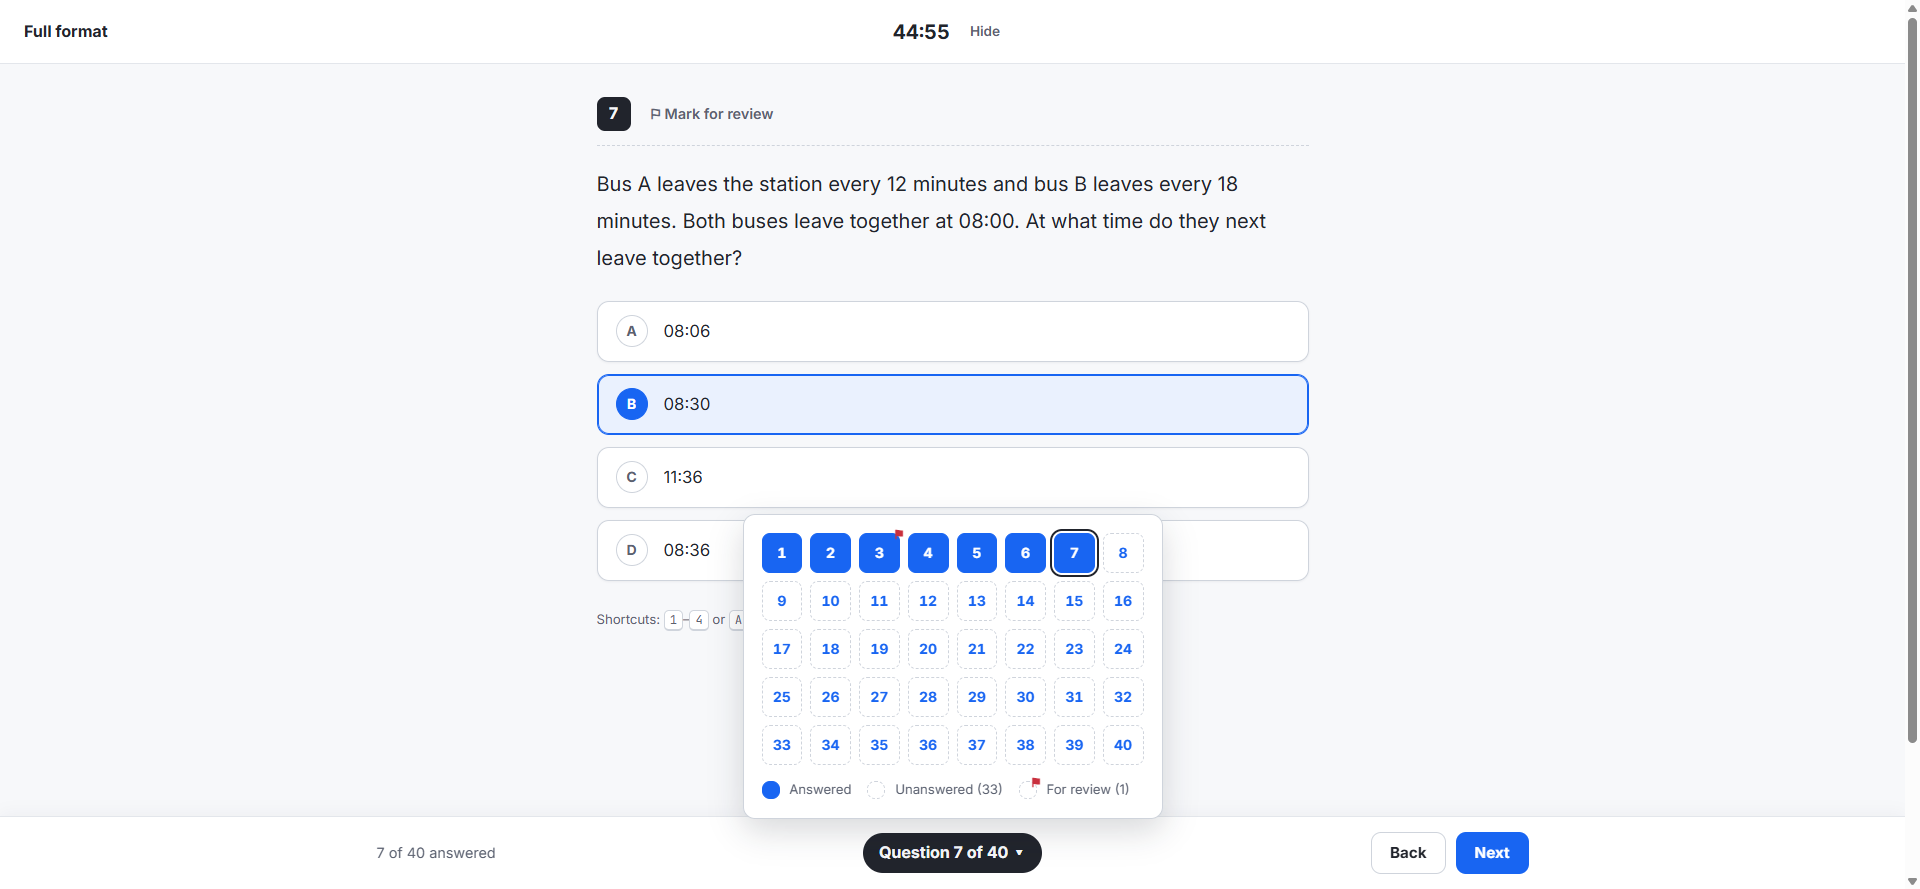
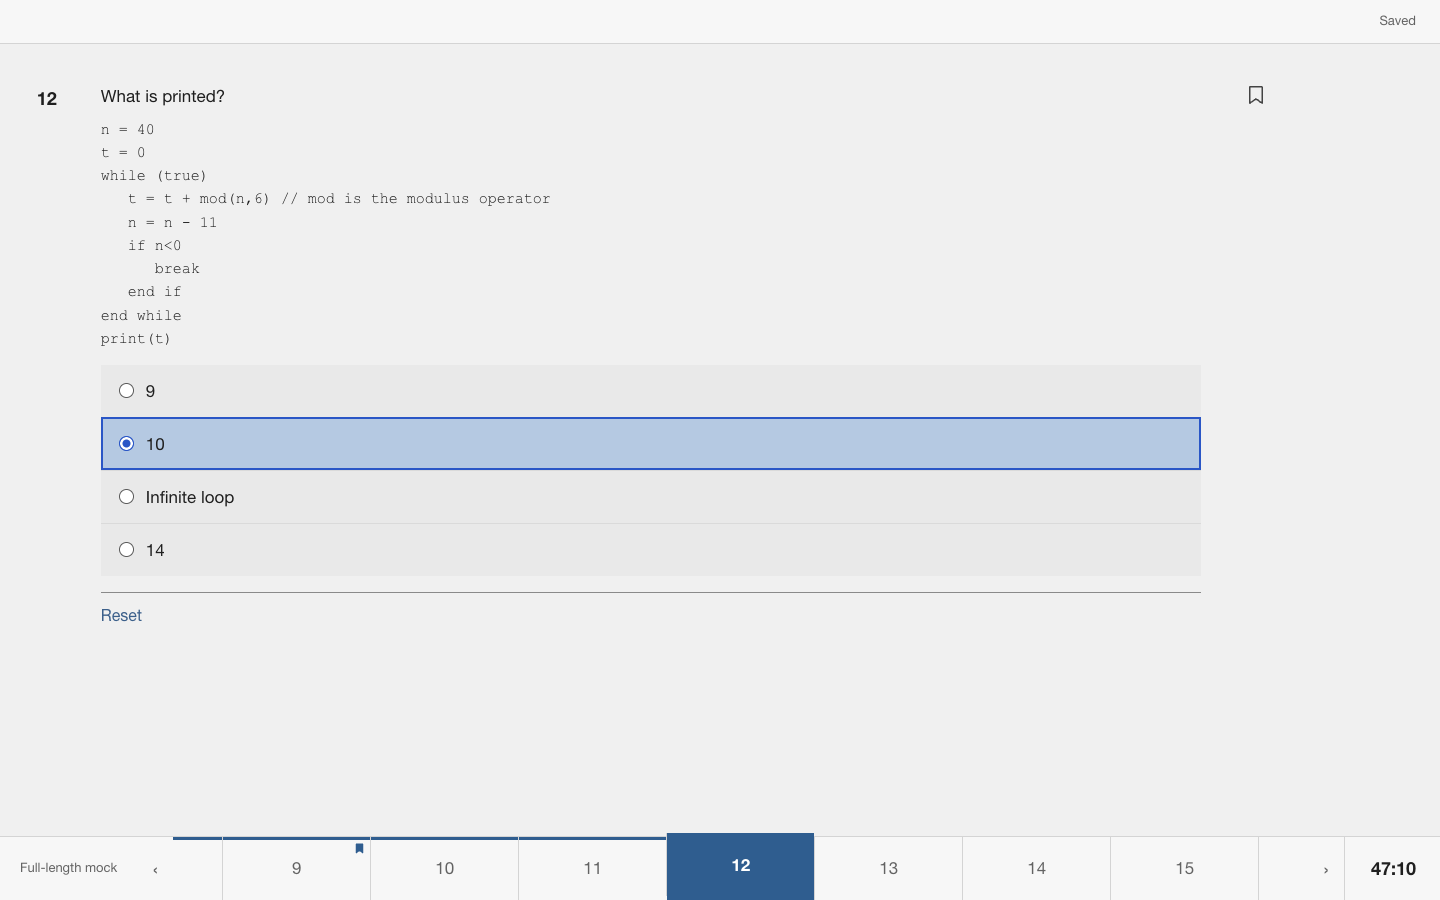
Update README, research notes and screenshots

diff --git a/README.md b/README.md
@@ -4,7 +4,7 @@
 
 **A complete revision site for the MBZUAI BSc in Artificial Intelligence screening exam.**
 
-Lessons for every topic · 1,304 hand-written questions · 181 generators that never run out · timed mock exams
+Lessons for every topic · 1,399 hand-written questions · 175 generators that never run out · timed mock exams
 
 **[Open the live site](https://bouwles.github.io/mbzuai-screening-prep/)**
 
@@ -20,12 +20,12 @@ Made by Paul Nercessian
 
 | | |
 |---|---|
-| **Learn** | 66 lessons, one per subtopic of MBZUAI's published syllabus, each in five steps you can skip between: (1) the simple version, recommended YouTube videos (Khan Academy, 3Blue1Brown, StatQuest, CS50 and others) and a step-by-step explanation; (2) worked examples revealed one step at a time, "which method when?" cues and common traps; (3) guided Foundation practice with progressive hints; (4) questions on your own, stepping up from Foundation to Exam level; (5) exam-level questions. Challenge questions are offered as optional enrichment. Plus a printable formula sheet. |
+| **Learn** | 65 lessons, one per subtopic of MBZUAI's published syllabus, each in five steps you can skip between: (1) the simple version, recommended YouTube videos (Khan Academy, 3Blue1Brown, StatQuest, CS50 and others) and a step-by-step explanation; (2) worked examples revealed one step at a time, "which method when?" cues and common traps; (3) guided Foundation practice with progressive hints; (4) questions on your own, stepping up from Foundation to Exam level; (5) exam-level questions. Plus a printable formula sheet. |
 | **Mastery** | A topic is *mastered* only from independent performance: of your last 10 answers without hints, at least 80% right and at least 3 right at Exam level. Topics you keep getting wrong are flagged *Needs work* and suggested for revisiting. Reading a lesson does not count. |
-| **Topic practice** | Pick topics, a difficulty (Build up / Foundation / Exam / Challenge / Mixed) and 10, 20, 30 or endless questions. *Build up* starts at Foundation and moves to Exam level after two hint-free right answers in a row. Progressive hints (one solution step at a time), instant feedback that starts with why your answer was wrong and how to recognise the question type, and a timer against the estimated exam pace. |
+| **Topic practice** | Pick topics, a difficulty (Build up / Foundation / Exam / Mixed) and 10, 20, 30 or endless questions. *Build up* starts at Foundation and moves to Exam level after two hint-free right answers in a row. Progressive hints (one solution step at a time), and instant feedback that starts with why your answer was wrong and how to recognise the question type. |
 | **General questions** | An endless mixed feed from the whole syllabus that leans towards your weakest topics. |
 | **Question bank** | Browse and search every question by area, topic, subtopic, difficulty and status (unseen / correct / wrong / flagged). |
-| **Mock exams** | A 60-minute full-length mock (60 minutes is the official BSc length; the question count is unpublished, so 53 is an estimate), 15 and 30 minute mocks, and a 40-question / 45-minute speed drill (MBZUAI's 2023 *graduate* format, not the BSc one). Foundation and Exam-level questions only. Countdown timer, navigator, flags, Submit only after the last question, auto-submit at zero, resumes after a reload. Results with the 75% line, breakdown by topic and a full review. |
+| **Mock exams** | A 60-minute full-length mock (60 minutes is the official BSc length; the question count is unpublished, so 53 is an estimate), 15 and 30 minute mocks, and a 40-question / 45-minute speed drill (MBZUAI's 2023 *graduate* format, not the BSc one). Foundation and Exam-level questions only, laid out like the real exam screen: numbered tab strip, mark-for-review bookmark, Reset, timer bottom-right. Submit only after the last question, auto-submit at zero, resumes after a reload. Results with the 75% line, breakdown by topic and a full review. |
 | **Mistakes** | Spaced repetition: wrong answers come back after 1, 3, 7 and 14 days. Generated questions come back with new numbers. |
 | **Dashboard** | Topics mastered, accuracy, streak, recent mock scores against the 75% line, weakest topics, and one "up next" step (due mistakes, then topics that need work, then where you left off). |
 
@@ -63,7 +63,7 @@ Areas and topics mirror MBZUAI's published list for the BSc screening exam:
 - **Programming Fundamentals**: Algorithmic Problem Solving, Basic Syntax Concepts, Functions, Basic Data Structures
 - **Data & AI Reasoning**: Data Interpretation, Basic Machine Learning Concepts
 
-These are split into 66 subtopics (see `src/syllabus.ts`). Research notes on the real exam, with sources, are in [RESEARCH_NOTES.md](RESEARCH_NOTES.md).
+These are split into 65 subtopics (see `src/syllabus.ts`). Research notes on the real exam, with sources, are in [RESEARCH_NOTES.md](RESEARCH_NOTES.md).
 
 ## Run it on your computer
 
@@ -111,7 +111,7 @@ Questions live in one file per subtopic: `src/questions/<area>/<topic>/<subtopic
 {
   id: 'quadratics-019',            // unique
   subtopic: 'quadratics',          // must match the file name
-  difficulty: 'exam',              // 'foundation' | 'exam' | 'challenge'
+  difficulty: 'exam',              // 'foundation' | 'exam'
   stem: 'Solve $x^2 - 5x + 6 = 0$.',
   options: ['$x = 2$ or $x = 3$', '$x = -2$ or $x = -3$', '$x = 1$ or $x = 6$', '$x = 5$ or $x = 6$'],
   correctIndex: 0,
@@ -126,32 +126,37 @@ Questions live in one file per subtopic: `src/questions/<area>/<topic>/<subtopic
 
 - Write maths inside `$...$` (inline) or `$$...$$` (display). In the `.ts` file, backslashes are doubled: `'\\frac{1}{2}'`.
 - Options are shuffled on screen, so explanations never mention a letter.
-- For Python "what does this print" questions add `code: { lang: 'python', source: '...' }` and `python: { stdout: '...' }`; the tests run the code for real.
+- Code is pseudocode by default: add `code: { lang: 'pseudocode', source: '...' }`, following the house dialect in [SPEC.md](SPEC.md), section 1.3. The tests run it through an interpreter and compare the output with the marked option.
+- Python is only for questions about reading basic Python: add `code: { lang: 'python', source: '...' }` and `python: { stdout: '...' }`; the tests run the code for real.
 - Generators live in `src/generators/...` and lessons in `src/lessons/...`; new files are picked up automatically.
 - Run `npm test` afterwards. It fails with a clear message if anything is off.
 
 ## How correctness is checked
 
-`npm test` runs 353 tests:
+`npm test` runs 610 tests:
 
 - Every static question: exactly 4 distinct options, a valid answer, a full mark scheme with an explanation for every wrong option, and every piece of LaTeX rendered through KaTeX in strict mode (it also rejects maths typed as plain text, `1x`, `+ -3` and similar).
 - Every question whose answer is a value is recomputed in code and must match the marked option (and no other option).
-- Every Python output question (175 of them) is run with real Python 3 and its output compared with the marked option. If Python isn't installed, the test prints the list of question ids to check by hand instead of failing.
+- Every Python output question (10 of them) is run with real Python 3 and its output compared with the marked option. If Python isn't installed, the test prints the list of question ids to check by hand instead of failing.
 - Every generator: 2,000 variants each, checking one correct option, four distinct options, no `NaN`/`undefined`, clean LaTeX, and that the worked solution ends on the correct answer.
 - Every lesson has the required sections (including the simple version and "which method when?" cues), and every subtopic has a lesson, recommended videos, at least 15 questions and at least one generator.
-- Every question yields at least one progressive hint that stops short of the full solution; mastery levels, the Build up ladder, and "no Challenge questions in mocks" are unit-tested.
+- Every pseudocode snippet must parse under the house dialect, and every snippet that can run on its own is run by a small interpreter and compared with the marked option.
+- The house style is enforced: short stems, no option that depends on a letter, Python at most 20% of Programming code questions, and at least 15 questions (6 Exam, 5 Foundation) per subtopic. `npm run report` prints the per-subtopic counts.
+- Old saved progress that refers to removed questions, generators or subtopics loads cleanly, and the exam screen's colours keep at least 4.5:1 contrast.
+- Every question yields at least one progressive hint that stops short of the full solution; mastery levels, the Build up ladder, and the mix of levels in mocks are unit-tested.
 
-On top of the automated tests, each subtopic was written and then independently re-solved by a separate reviewer, question by question.
+On top of the automated tests, every question whose answer isn't computed in code was independently re-solved by a separate reviewer.
 
 ## Design
 
-The look is based on the revision and test-prep tools students already know: Khan Academy, Brilliant, Quizlet, Duolingo and the College Board Bluebook exam app.
+The look is based on the revision tools students already know, such as Khan Academy, Brilliant, Quizlet and Duolingo, with questions always shown in the exam layout.
 
 - Light theme by default (dark theme in Settings), one blue accent, and green/red used only for right and wrong.
-- Practice runs in a focus view: exit at the top left, a thin progress bar, the question in a centred column, and **Check / Next at the bottom right**. Feedback appears in the bottom bar; the mark scheme opens below the question.
-- Mock exams copy the Bluebook layout: timer at the top centre (you can hide it), a question navigator at the bottom centre, Back / Next at the bottom right.
-- All maths is typeset with KaTeX, code is syntax-highlighted with line numbers, and charts are drawn as SVG.
-- No animations or transitions anywhere. Keyboard: `1`–`4` or `A`–`D` choose, `Enter` checks / continues, `F` flags, `←` `→` move in mock exams.
+- Every mode reads questions in the same block: a bold number at the left, the stem, grey option rows with radio circles and no letters, a rule, Reset, and a bookmark at the right.
+- Mock exams fill the screen: a "Saved" indicator at the top right, and a bottom strip of numbered tabs with Submit at the end and the timer at the right (click it to hide it). Mocks stay light whatever the theme.
+- In practice, feedback and the mark scheme open below the question, with **Check / Next** under them. The site navigation stays visible.
+- All maths is typeset with KaTeX, and charts are drawn as SVG. Pseudocode is plain Courier everywhere; Python in practice is syntax-highlighted with line numbers.
+- No animations or transitions, apart from a few small ones on the exam screen. Keyboard: `1`–`4` or `A`–`D` choose, `Enter` checks / continues, `F` marks for review, `←` `→` move in mock exams.
 
 ## Tech
 

diff --git a/RESEARCH_NOTES.md b/RESEARCH_NOTES.md
@@ -137,6 +137,7 @@ Overall: there is no reliable public evidence on difficulty or question count. T
 - **Never trust the `Exam.pdf` key.** Any item adapted from it must be re-solved, de-duplicated and kept on syllabus.
 - **Track awareness:** the exam is "relevant to your chosen track". A future Engineering/Business toggle could shift Programming weight. No public data on how the versions differ.
 - **Deadline banner:** EA deadline is 1 Nov 2026, and the exam must be done within 10 days of submitting. If the student applies EA, the exam lands by about 11 Nov 2026.
+- Bank refocused on exam-level style: short one-sentence stems, more definition questions, pseudocode as the default code language, Python-specific trivia and the Challenge tier removed, Rates & clocks dropped as off-syllabus.
 - All tunables live in `src/config/exam.ts`.
 
 **Applied 2026-11-02:** the full mock is now 60 min (53 questions, an estimate at ~67 s each); 40 Q / 45 min is kept only as a labelled "graduate-format drill". Area weights changed to Math 40 / Data & AI 25 / Programming 20 / CT & Logic 15 (estimate). Mocks use Foundation 30% / Exam 70% and no Challenge questions (estimate; Challenge is optional enrichment). 75% is labelled everywhere as the fee-waiver score, not a pass mark. The question bank's difficulty labels were re-checked against the 4 official UG samples: Exam = sample-like 2–4 step questions, Foundation = one idea, Challenge = clearly harder than the samples.
